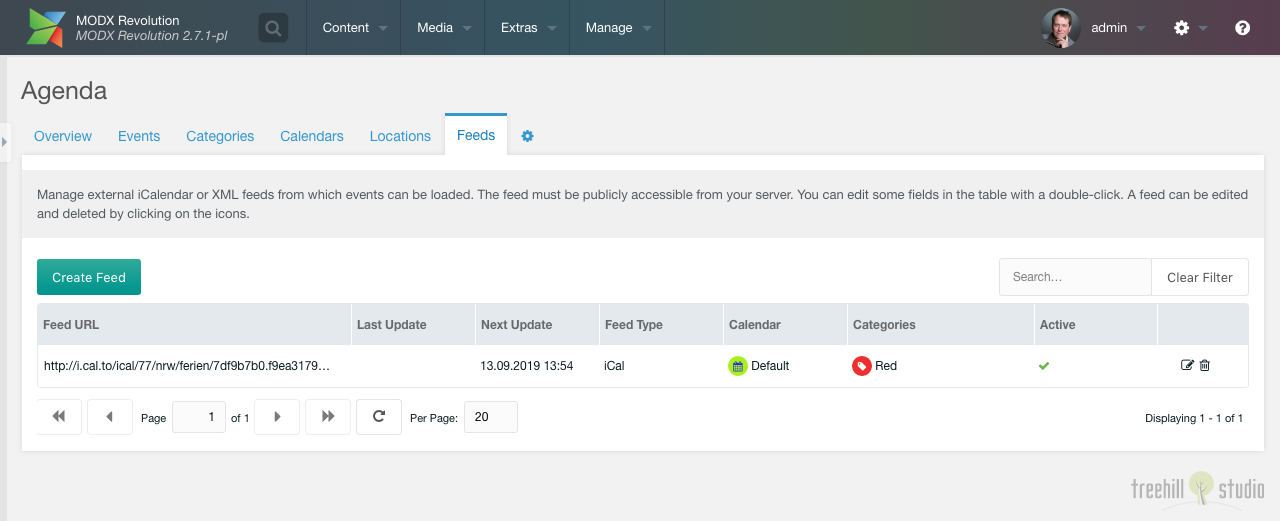
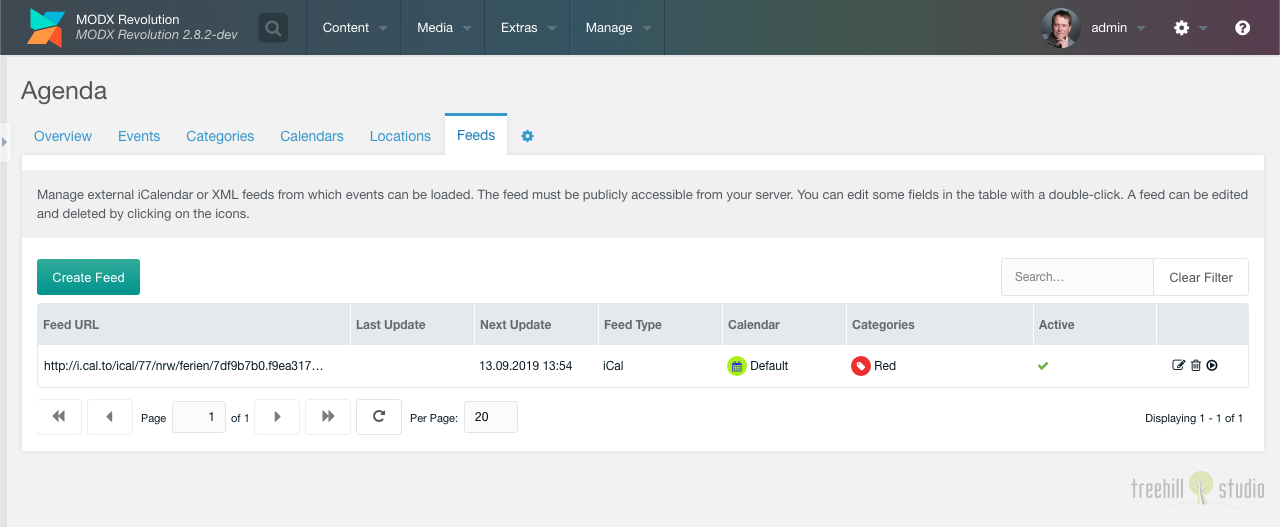
Update docs for Agenda 1.2.0

diff --git a/en/01_Agenda/v1/07_FAQ.md b/en/01_Agenda/v1/07_FAQ.md
@@ -8,9 +8,9 @@ glad to help.
 
 To render events to your visitors, you can use the provided snippets:
 
-- [AgendaList](04_Snippets/01_AgendaList.md) used for rendering a list of events
-- [AgendaCalendar](04_Snippets/02_AgendaCalendar.md) used for rendering events in a list divided into intervals (i.e. days)
-- [AgendaDetail](04_Snippets/03_AgendaDetail.md) used for showing one specific event on a detail page
+- [AgendaList](04_Snippets/01_AgendaList) used for rendering a list of events
+- [AgendaCalendar](04_Snippets/02_AgendaCalendar) used for rendering events in a list divided into intervals (i.e. days)
+- [AgendaDetail](04_Snippets/03_AgendaDetail) used for showing one specific event on a detail page
 
 There are also other snippets to help you render calendars, categories, and locations. 
 
@@ -20,15 +20,15 @@ By default repeating events are scheduled for 100 recurrences.
 
 You have two possibilitiesto change that:
 
-- [Setup a cron job](05_Cronjob.md) to refreshes recurring events for up to 100 repeats in the future from the current date.
-- Increase the `agenda.repeating_max_occurance` [system setting](02_Custom_Manager_Page/07_Settings.md) to a larger value.
+- [Setup a cron job](05_Cronjob) to refreshes recurring events for up to 100 repeats in the future from the current date.
+- Increase the `agenda.repeating_max_occurance` [system setting](02_Custom_Manager_Page/07_Settings) to a larger value.
 
 ## Can events, categories, calendars or locations be connected to a resource? 
 
 Yes!
 
 Agenda comes with a number of [system
-settings](02_Custom_Manager_Page/07_Settings.md). Configure them with a comma
+settings](02_Custom_Manager_Page/07_Settings). Configure them with a comma
 separated list of resource IDs to use as parent resources. When set up, a new
 resource selection field will be added to the edit windows in the manager.
 
@@ -39,7 +39,7 @@ resource selection field will be added to the edit windows in the manager.
 
 ## How often is an event feed refreshed?
 
-When creating the [feed](02_Custom_Manager_Page/06_Feeds.md) for events to be
+When creating the [feed](02_Custom_Manager_Page/06_Feeds) for events to be
 imported, you can set how often the feed should be checked for new or updated
 events, with a minimum interval of once a minute.
    
@@ -58,7 +58,7 @@ JavaScript API and the Geocoding API.
 # What's the difference between a calendar and a category?
 
 They're both ways of organising your events into logical sections, and can be
-filtered on in the [AgendaList](04_Snippets/01_AgendaList.md) snippet.
+filtered on in the [AgendaList](04_Snippets/01_AgendaList) snippet.
 
 A Calendar is best seen as the "owner" or "target" for an event. For example a
 conference center could use calendars for organising events as "Public events",
@@ -84,7 +84,7 @@ through web requests as well using online cron job services.
 ## Can the cron job log more information?
 
 Yes, enable the `agenda.debug` [system
-setting](02_Custom_Manager_Page/07_Settings.md). A new log will be created in
+setting](02_Custom_Manager_Page/07_Settings). A new log will be created in
 `{core_path}/cache/logs/agenda.log` with a lot of debug information.
 
 By default, errors are logged to the standard MODX error log.
@@ -93,4 +93,4 @@ By default, errors are logged to the standard MODX error log.
 
 The format string has to use exactly 7 parts separated by `|`. The description
 of the formatting rules could be found below the placeholder descriptions on the
-[AgendaList](04_Snippets/01_AgendaList.md#range-placeholder-format) snippet description.
+[AgendaList](04_Snippets/01_AgendaList#range-placeholder-format) snippet description.

diff --git a/en/01_Agenda/v1/04_Snippets/03_AgendaDetail.md b/en/01_Agenda/v1/04_Snippets/03_AgendaDetail.md
@@ -54,7 +54,7 @@ enddate | The start date of the event formatted in ISO 8601 (could be formatted 
 images | All images of the event formatted by the chunk set with the imageTpl property
 imageurls | An array of all image urls. The placeholder `[[+imageurls.1]]` contains the url of the first image
 location | The location of the event formatted by the chunk set with the locationTpl property
-range | The formatted date range of the event. The format is defined with the lexicon entries `agenda.php_format_daterange` and `agenda.php_format_separator` and could be overridden by the `daterangeFormat` snippet property. The [format rules](01_AgendaList.md#range-placeholder-format) are described on the AgendaList page.
+range | The formatted date range of the event. The format is defined with the lexicon entries `agenda.php_format_daterange` and `agenda.php_format_separator` and could be overridden by the `daterangeFormat` snippet property. The [format rules](01_AgendaList#range-placeholder-format) are described on the AgendaList page.
 repeating | Contains 1 if the event is an recurring event (otherwise 0).
 resource_id | The id of a linked resource of the event.
 startdate | The start date of the event formatted in ISO 8601 (could be formatted i.e. with ```[[+startdate:strtotime:date=`%a. %d.%m.%Y`]]```).
@@ -62,7 +62,7 @@ title | The title of the event.
 videos | All videos of the event formatted by the chunk set with the videosTpl property
 videourls | An array of all video urls. The placeholder `[[+videourls.1]]` contains the url of the first video
 
-[Extended fields](../06_Extended_Fields.md) are available as placeholder with the prefix `extended` in the
+[Extended fields](../06_Extended_Fields) are available as placeholder with the prefix `extended` in the
 event row template.
 
 ### tplAgendaEventWrapper

diff --git a/en/01_Agenda/v1/04_Snippets/02_AgendaCalendar.md b/en/01_Agenda/v1/04_Snippets/02_AgendaCalendar.md
@@ -60,7 +60,7 @@ idx | The number of the event starting with 1.
 images | All images of the event formatted by the chunk set with the imageTpl property
 imageurls | An array of all image urls. The placeholder `[[+imageurls.1]]` contains the url of the first image
 location | The location of the event formatted by the chunk set with the locationTpl property
-range | The formatted date range of the event. The format is defined with the lexicon entries `agenda.php_format_daterange` and `agenda.php_format_separator` and could be overridden by the `daterangeFormat` snippet property. The [format rules](01_AgendaList.md#range-placeholder-format) are described on the AgendaList page.
+range | The formatted date range of the event. The format is defined with the lexicon entries `agenda.php_format_daterange` and `agenda.php_format_separator` and could be overridden by the `daterangeFormat` snippet property. The [format rules](01_AgendaList#range-placeholder-format) are described on the AgendaList page.
 repeating | Contains 1 if the event is an recurring event (otherwise 0).
 resource_id | The id of a linked resource of the event.
 startdate | The start date of the event formatted in ISO 8601 (could be formatted i.e. with ```[[+startdate:strtotime:date=`%a. %d.%m.%Y`]]```).
@@ -68,7 +68,7 @@ title | The title of the event.
 videos | All videos of the event formatted by the chunk set with the videosTpl property
 videourls | An array of all video urls. The placeholder `[[+videourls.1]]` contains the url of the first video
 
-[Extended fields](../06_Extended_Fields.md) are available as placeholder with the prefix `extended` in the
+[Extended fields](../06_Extended_Fields) are available as placeholder with the prefix `extended` in the
 event row template.
 
 ### tplAgendaEventWrapper

diff --git a/en/01_Agenda/v1/04_Snippets/04_AgendaDetailIcal.md b/en/01_Agenda/v1/04_Snippets/04_AgendaDetailIcal.md
@@ -1,0 +1,34 @@
+This snippet displays an iCalendar link or download an iCalendar file of an event.
+
+## Properties
+
+It uses the following snippet properties:
+
+Property | Description | Default
+---------|-------------|--------
+calendars | Comma-separated list of aliases of calendars to filter the iCal download. | -
+categories | Comma separated list of aliases of categories to filter the iCal download. | -
+contexts | Comma separated list of context keys to filter the iCal download. | -
+id | ID of one event to display the iCal download link for. | Request parameter `event`
+locations | Comma separated list of aliases of locations to filter the iCal download. | -
+tpl | Name of a chunk that contains the template for the iCal download link. | tplAgendaEventDetailICalLink
+repeating | ID of one recurring event to display the iCal download link for. | Request parameter `repeating`
+usergroups | Comma separated list of user group names to filter the iCal download. | -
+users | Comma separated list of user IDs to filter the iCal download. | -
+
+## Placeholders
+
+The following placeholders are available in the different (default) chunks. Each
+snippet property will be set as placeholder in each template chunk, i.e. a
+snippet call ```[[!AgendaDetail? &subtitle=`whatever`]]``` will fill the
+placeholder subtitle in each used chunk with the value `whatever`.
+
+**CAUTION:** The default template chunks for both snippets are overwritten
+during each package update, so please rename the chunks before editing them.
+
+### tplAgendaEventDetailIcal
+
+Placeholder | Description
+------------|------------
+key | The request key for the iCal download link.
+value | The request value for the iCal download link.

diff --git a/en/01_Agenda/v1/04_Snippets/index.md b/en/01_Agenda/v1/04_Snippets/index.md
@@ -1,25 +1,41 @@
-_Agenda_ contains five _snippets_ in the `Agenda` category.
+_Agenda_ contains some _snippets_ in the `Agenda` category.
 
 #### AgendaList
 
-This snippet displays events in a [list](01_AgendaList.md) view.
+This snippet displays [Agenda events](01_AgendaList) in a view.
 
 #### AgendaCalendar
 
-This snippet displays events in a list divided into [intervals](02_AgendaCalendar.md).
+This snippet displays [Agenda events](02_AgendaCalendar) in a list divided into.
 
 #### AgendaDetail
 
-This snippet displays one event in a [detail](03_AgendaDetail.md) view.
+This snippet displays one [Agenda event](03_AgendaDetail) in a view.
+
+#### AgendaDetailIcal
+
+This snippet displays the [iCal Download link](04_AgendaDetailIcal) of one event and downloads the iCal file.
 
 #### AgendaCalendars
 
-This snippet displays a list of [calendars](04_AgendaCalendars.md).
+This snippet displays a list of [Agenda calendars](05_AgendaCalendars).
 
 #### AgendaCategories
 
-This snippet displays a list of [categories](05_AgendaCategories.md).
+This snippet displays a list of [Agenda categories](06_AgendaCategories).
 
 #### AgendaLocations
 
-This snippet displays a list of [locations](06_AgendaLocations.md).
+This snippet displays a list of [Agenda locations](07_AgendaLocations).
+
+## FormIt Hooks
+
+_Agenda_ contains FormIt _hooks_ in the `Agenda` category.
+
+#### AgendaEventGet
+
+This hook allows to fill FormIt values by [Agenda events](08_AgendaEventGet).
+
+#### AgendaEventSet
+
+This hook allows to set [Agenda events](09_AgendaEventSet) values by FormIt.

diff --git a/en/01_Agenda/v1/01_Installation.md b/en/01_Agenda/v1/01_Installation.md
@@ -2,11 +2,11 @@ The MODX installer should install the package automatically from the modmore
 repository.
 
 A custom manager page called _Agenda_ is installed within the _Extras_ menu.
-Also some [snippets](04_Snippets/index.md) in the element category named
+Also some [snippets](04_Snippets/index) in the element category named
 _Agenda_ are created.
 
 There are some system settings available in the namespace _agenda_. These could
-also be edited in the [settings](02_Custom_Manager_Page/07_Settings.md) (gear
+also be edited in the [settings](02_Custom_Manager_Page/07_Settings) (cog
 icon) tab of the _Agenda_ custom manager page.
 
 If you want to connect events, categories, calendars or locations to MODX
@@ -16,7 +16,7 @@ settings.
 To use the map and the geolocation option in the location address tab, you have
 to enter a [Google Maps API
 Key](https://developers.google.com/maps/documentation/javascript/get-api-key) in
-the Agenda [system setting](02_Custom_Manager_Page/07_Settings.md)
+the Agenda [system setting](02_Custom_Manager_Page/07_Settings)
 `agenda.google_maps_api_key`. You have to activate the Maps JavaScript API and
 the Geocoding API in the created Google Cloud Platform project.
 

diff --git a/en/01_Agenda/v1/02_Custom_Manager_Page/index.md b/en/01_Agenda/v1/02_Custom_Manager_Page/index.md
@@ -2,28 +2,28 @@ You could create and edit your event data on the custom manager page of _Agenda_
 
 #### Overview 
 
-This tab contains a calendar [overview](01_Overview.md) of the current month.
+This tab contains a calendar [overview](01_Overview) of the current month.
 
 #### Events 
 
-This tab contains a grid view of all [events](02_Events.md).
+This tab contains a grid view of all [events](02_Events).
 
 #### Categories 
 
-This tab contains a grid view of all [categories](03_Categories.md).
+This tab contains a grid view of all [categories](03_Categories).
 
 #### Calendars 
 
-This tab contains a grid view of all [calendars](04_Calendars.md).
+This tab contains a grid view of all [calendars](04_Calendars).
 
 #### Locations 
 
-This tab contains a grid view of all [locations](05_Locations.md).
+This tab contains a grid view of all [locations](05_Locations).
 
 #### Feeds 
 
-This tab contains a grid view of all [feeds](06_Feeds.md).
+This tab contains a grid view of all [feeds](06_Feeds).
 
-#### Settings (gear icon) 
+#### Settings (cog icon) 
 
-This tab contains a grid view of all [settings](07_Settings.md).
+This tab contains a grid view of all [settings](07_Settings).

diff --git a/en/01_Agenda/v1/08_Tutorials/Frontend_Editing.md b/en/01_Agenda/v1/08_Tutorials/Frontend_Editing.md
@@ -13,8 +13,8 @@ alias of "userevents" and make sure it's active.
 ## FormIt Call and form code
 
 To render and execute the form, we have to add a FormIt call to a MODX resource.
-This FormIt Call uses the [AgendaEventGet](../04_Snippets/07_AgendaEventGet.md) and
-the [AgendaEventSet](../04_Snippets/08_AgendaEventSet.md) hooks.
+This FormIt Call uses the [AgendaEventGet](../04_Snippets/08_AgendaEventGet) and
+the [AgendaEventSet](../04_Snippets/09_AgendaEventSet) hooks.
 
 Here's our `FormIt` example call; make sure to adjust the `&agendaEvent` property to
 the ID of an existing event, that should be editable in the frontend.
@@ -106,5 +106,5 @@ a restriction in the `AgendaCategories` snippet.
 the start date and end date of the repeating event. The other fields will change
 the event itself.
 - All editable fields are shown on the documentation of the
-[AgendaEventGet](../04_Snippets/07_AgendaEventGet.md) and the
-[AgendaEventSet](../04_Snippets/08_AgendaEventSet.md) hooks.
+[AgendaEventGet](../04_Snippets/08_AgendaEventGet) and the
+[AgendaEventSet](../04_Snippets/09_AgendaEventSet) hooks.

diff --git a/en/01_Agenda/v1/02_Custom_Manager_Page/06_Feeds.md b/en/01_Agenda/v1/02_Custom_Manager_Page/06_Feeds.md
@@ -8,9 +8,10 @@ left above the feeds grid.
 The grid could be filtered by a search input on the top right above the
 feeds grid.
 
-Each feed could be edited by a click on the edit icon in the row of the
-feed. And it could be deleted after a confirmation with a click on the trash
-icon in the row of the feed.
+Each feed could be edited by a click on the edit icon in the row of the feed.
+And it could be deleted after a confirmation with a click on the trash icon in
+the row of the feed. The feed can be refreshed with a click on the refresh
+icon.
 
 The row of each feed shows the feed url, date/time of the last update and the
 next update by the cronjob, the feed type the calendar, the categories and the

diff --git a/en/01_Agenda/v1/05_Cronjob.md b/en/01_Agenda/v1/05_Cronjob.md
@@ -49,7 +49,7 @@ event are created and old (maybe edited) repeats are not changed.
 ## Debug the cronjob
 
 To detect cronjob issues, you could enable the Agenda [system
-setting](02_Custom_Manager_Page/07_Settings.md) `agenda.debug`. The file
+setting](02_Custom_Manager_Page/07_Settings) `agenda.debug`. The file
 `{core_path}/cache/logs/agenda.log` will then contain a lot of debug
 information. Per default cronjob errors are logged in the standard MODX error
 log.

diff --git a/en/01_Agenda/v1/index.md b/en/01_Agenda/v1/index.md
@@ -9,8 +9,9 @@ It is a perfect solution for users looking for an extensive MODX event managemen
 
 # Recommended Reading
 
-- [Installation](01_Installation.md)
-- [Custom Manager Page](02_Custom_Manager_Page/index.md)
-- [Snippets](04_Snippets/index.md)
-- [FAQ](07_FAQ.md)
-- Tutorials
+- [Installation](01_Installation)
+- [Custom Manager Page](02_Custom_Manager_Page)
+- [Snippets](04_Snippets)
+- [FAQ](07_FAQ)
+- [Tutorials](08_FAQ)
+

diff --git a/en/01_Agenda/v1/03_System_Settings.md b/en/01_Agenda/v1/03_System_Settings.md
@@ -1,7 +1,7 @@
 _Agenda_ contains some _system settings_ in the `agenda` namespace.
 
 These are available in the MODX system settings panel and in the
-[settings](02_Custom_Manager_Page/07_Settings.md) tab (gear icon) of the _Agenda_
+[settings](02_Custom_Manager_Page/07_Settings) tab (cog icon) of the _Agenda_
 custom manager page.
 
 Key | Name | Description | Default
